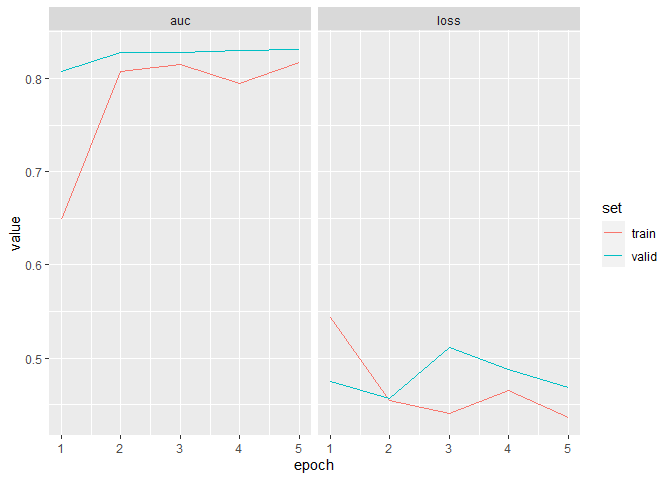
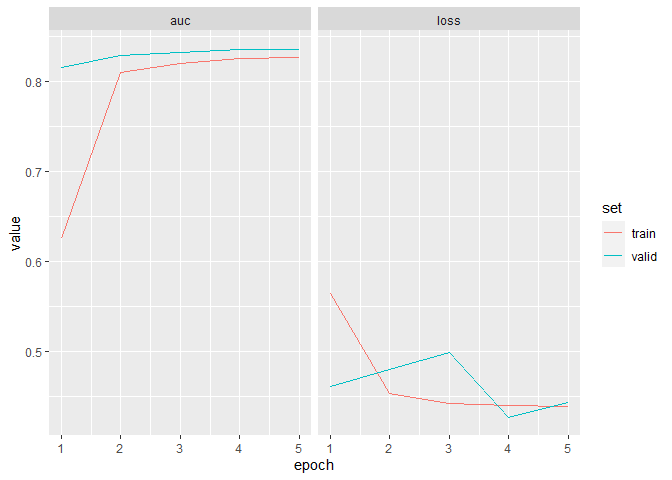
Fixed readme

diff --git a/README.md b/README.md
@@ -1,7 +1,7 @@
 
 <!-- README.md is generated from README.Rmd. Please edit that file -->
 
-<img src="assets/AUSTIN_LOGO_CMYK.png" width="332"/>
+<img src="assets/austin_mos.png" width="400"/>
 
 # torchtabular
 
@@ -186,46 +186,18 @@ fitted <- model_setup %>%
       valid_data = valid_dl,
       verbose = TRUE)
 #> Epoch 1/5
-#> Train metrics: Loss: 0.544 - AUC: 0.6483
-#> Valid metrics: Loss: 0.4747 - AUC: 0.8071
+#> Train metrics: Loss: 0.5633 - AUC: 0.6331
+#> Valid metrics: Loss: 0.4652 - AUC: 0.8099
 #> Epoch 2/5
-#> Train metrics: Loss: 0.4543 - AUC: 0.8074
-#> Valid metrics: Loss: 0.4563 - AUC: 0.8283
+#> Train metrics: Loss: 0.4484 - AUC: 0.8092
+#> Valid metrics: Loss: 0.4932 - AUC: 0.8243
 #> Epoch 3/5
-#> Train metrics: Loss: 0.4401 - AUC: 0.8147
-#> Valid metrics: Loss: 0.5111 - AUC: 0.8283
+#> Train metrics: Loss: 0.444 - AUC: 0.8142
+#> Valid metrics: Loss: 0.4466 - AUC: 0.8314
 #> Epoch 4/5
-#> Train metrics: Loss: 0.4649 - AUC: 0.7951
-#> Valid metrics: Loss: 0.4877 - AUC: 0.83
+#> Train metrics: Loss: 0.436 - AUC: 0.8238
+#> Valid metrics: Loss: 0.4463 - AUC: 0.8329
 #> Epoch 5/5
-#> Train metrics: Loss: 0.4367 - AUC: 0.8177
-#> Valid metrics: Loss: 0.4683 - AUC: 0.8312
-```
-
-``` r
-metrics <- fitted$ctx$get_metrics_df()
-
-p <- metrics %>% 
-  ggplot(aes(x = epoch, y = value, col = set)) + 
-  geom_line() + 
-  facet_wrap(vars(metric))
-
-p
-```
-
-<img src="man/figures/README-unnamed-chunk-12-1.png" width="100%" />
-
-``` r
-metrics %>% 
-  group_by(set, metric) %>% 
-  summarise(max = max(value))
-#> `summarise()` has grouped output by 'set'. You can override using the `.groups` argument.
-#> # A tibble: 4 x 3
-#> # Groups:   set [2]
-#>   set   metric   max
-#>   <chr> <chr>  <dbl>
-#> 1 train auc    0.818
-#> 2 train loss   0.544
-#> 3 valid auc    0.831
-#> 4 valid loss   0.511
+#> Train metrics: Loss: 0.4407 - AUC: 0.8218
+#> Valid metrics: Loss: 0.441 - AUC: 0.832
 ```
